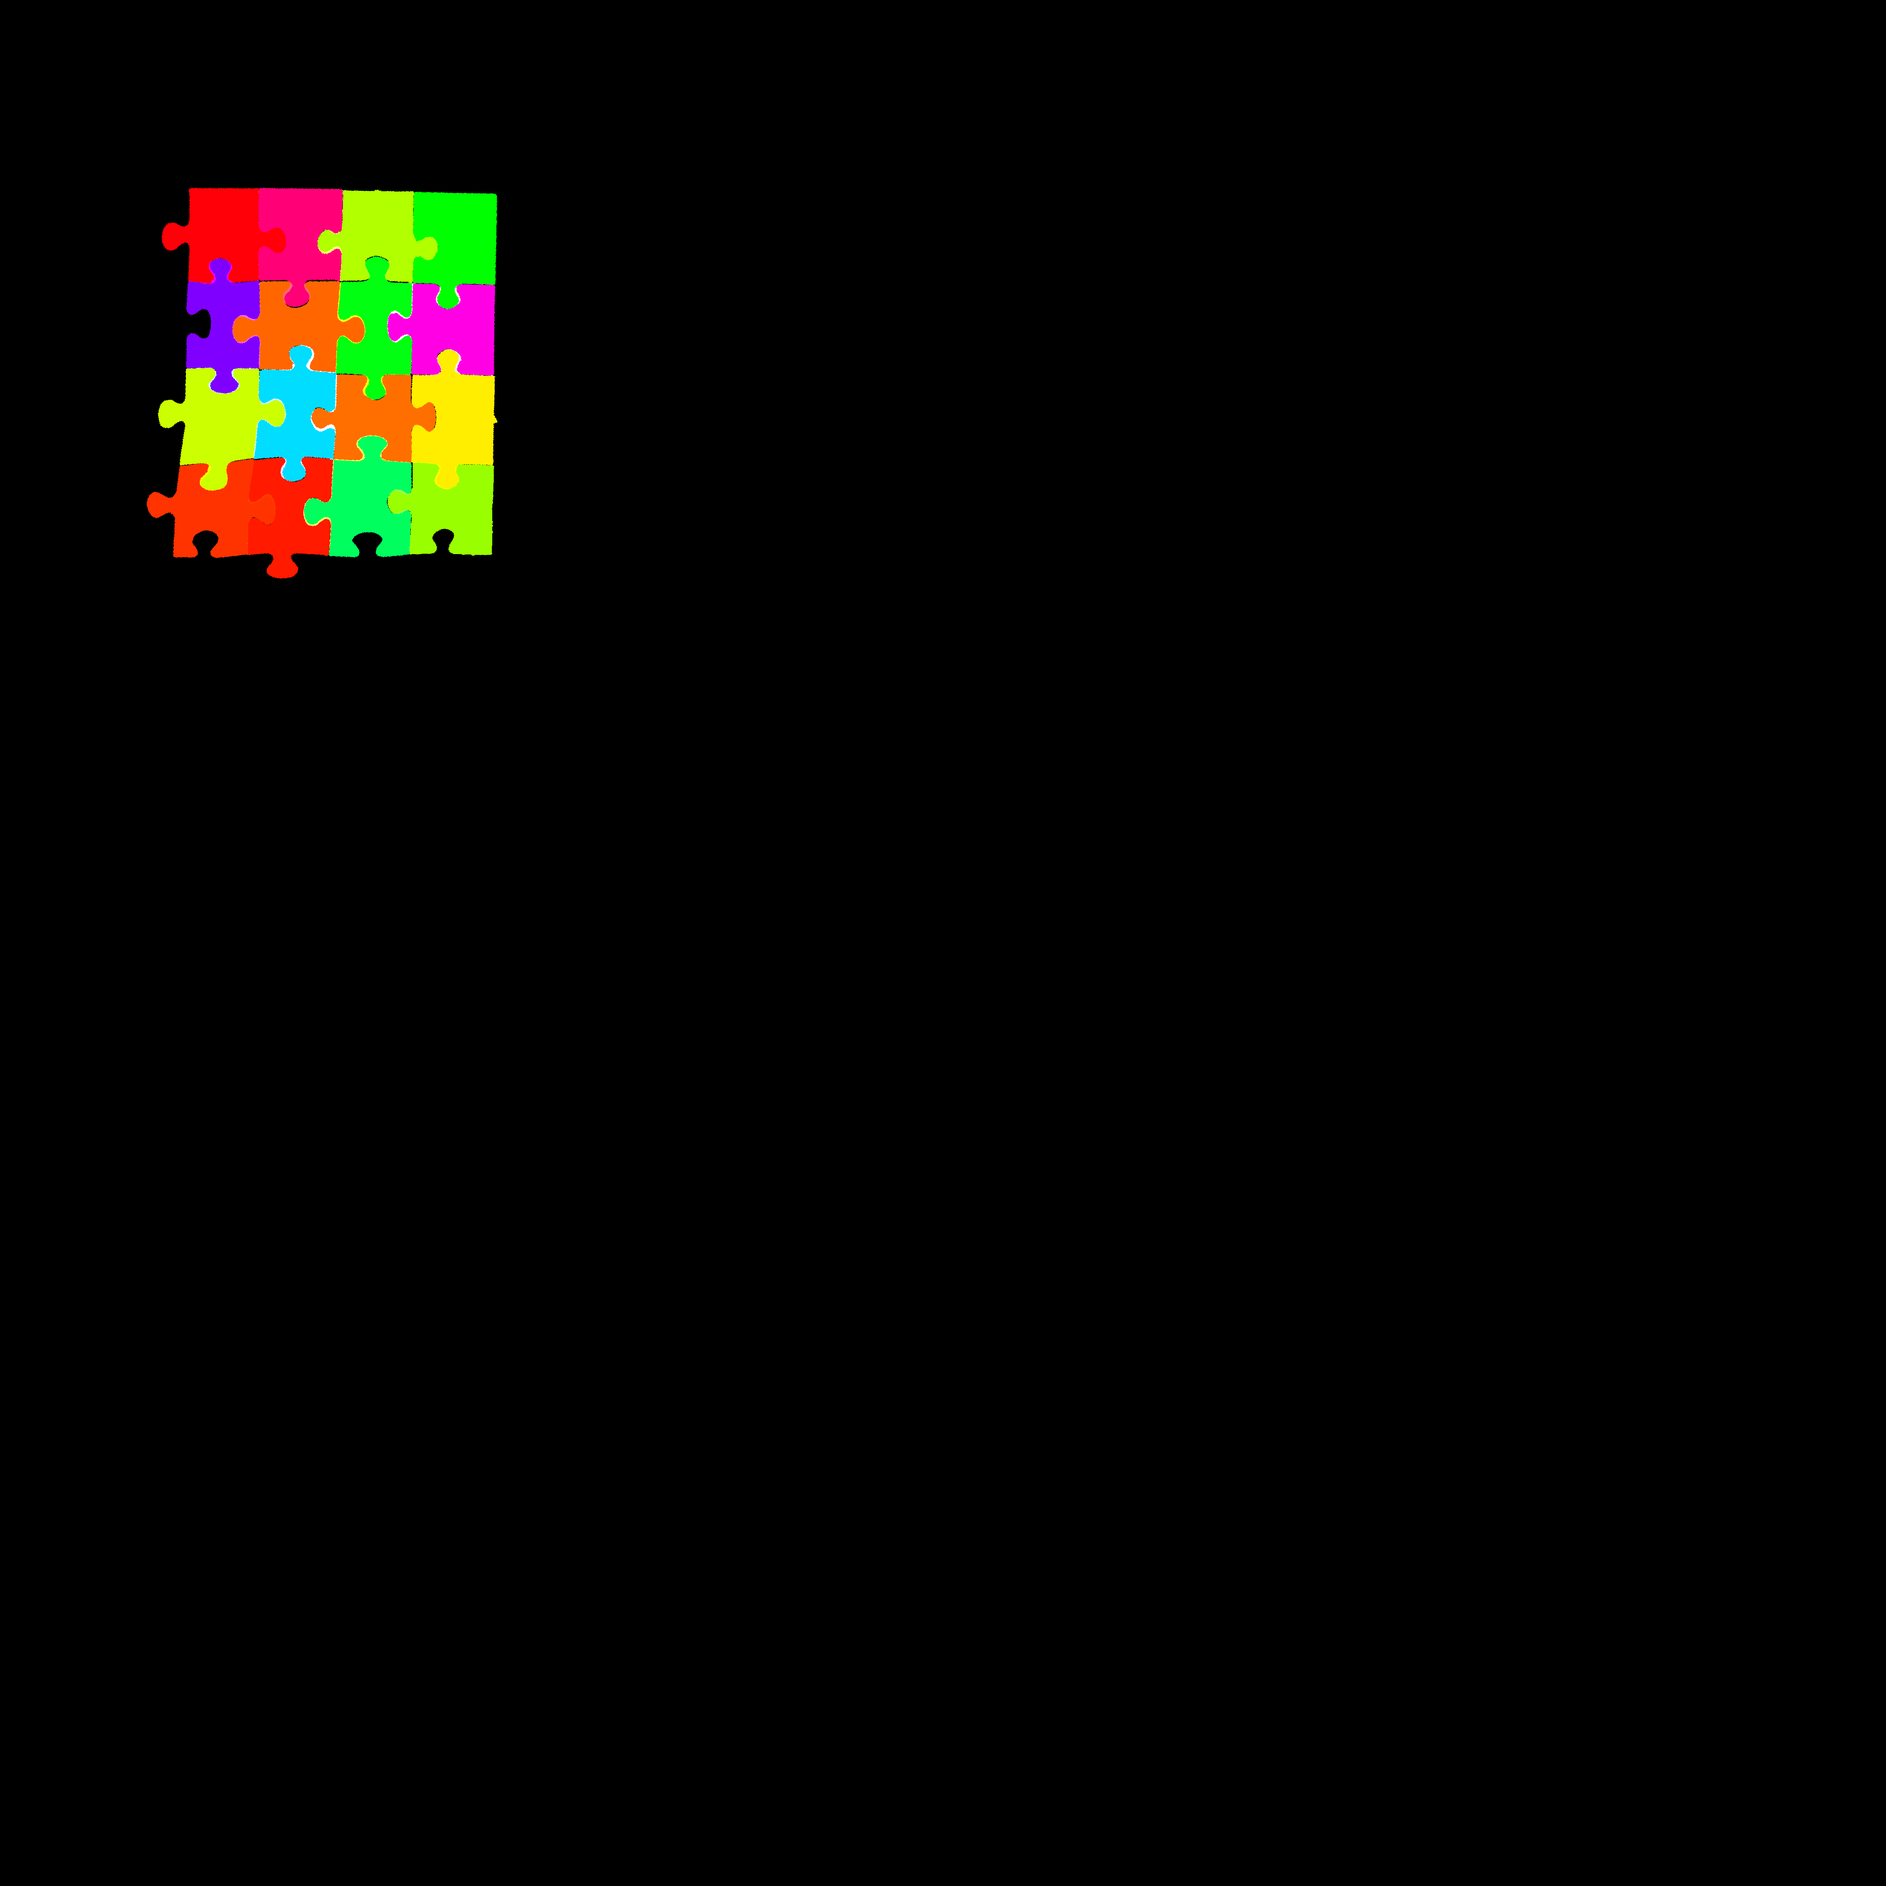
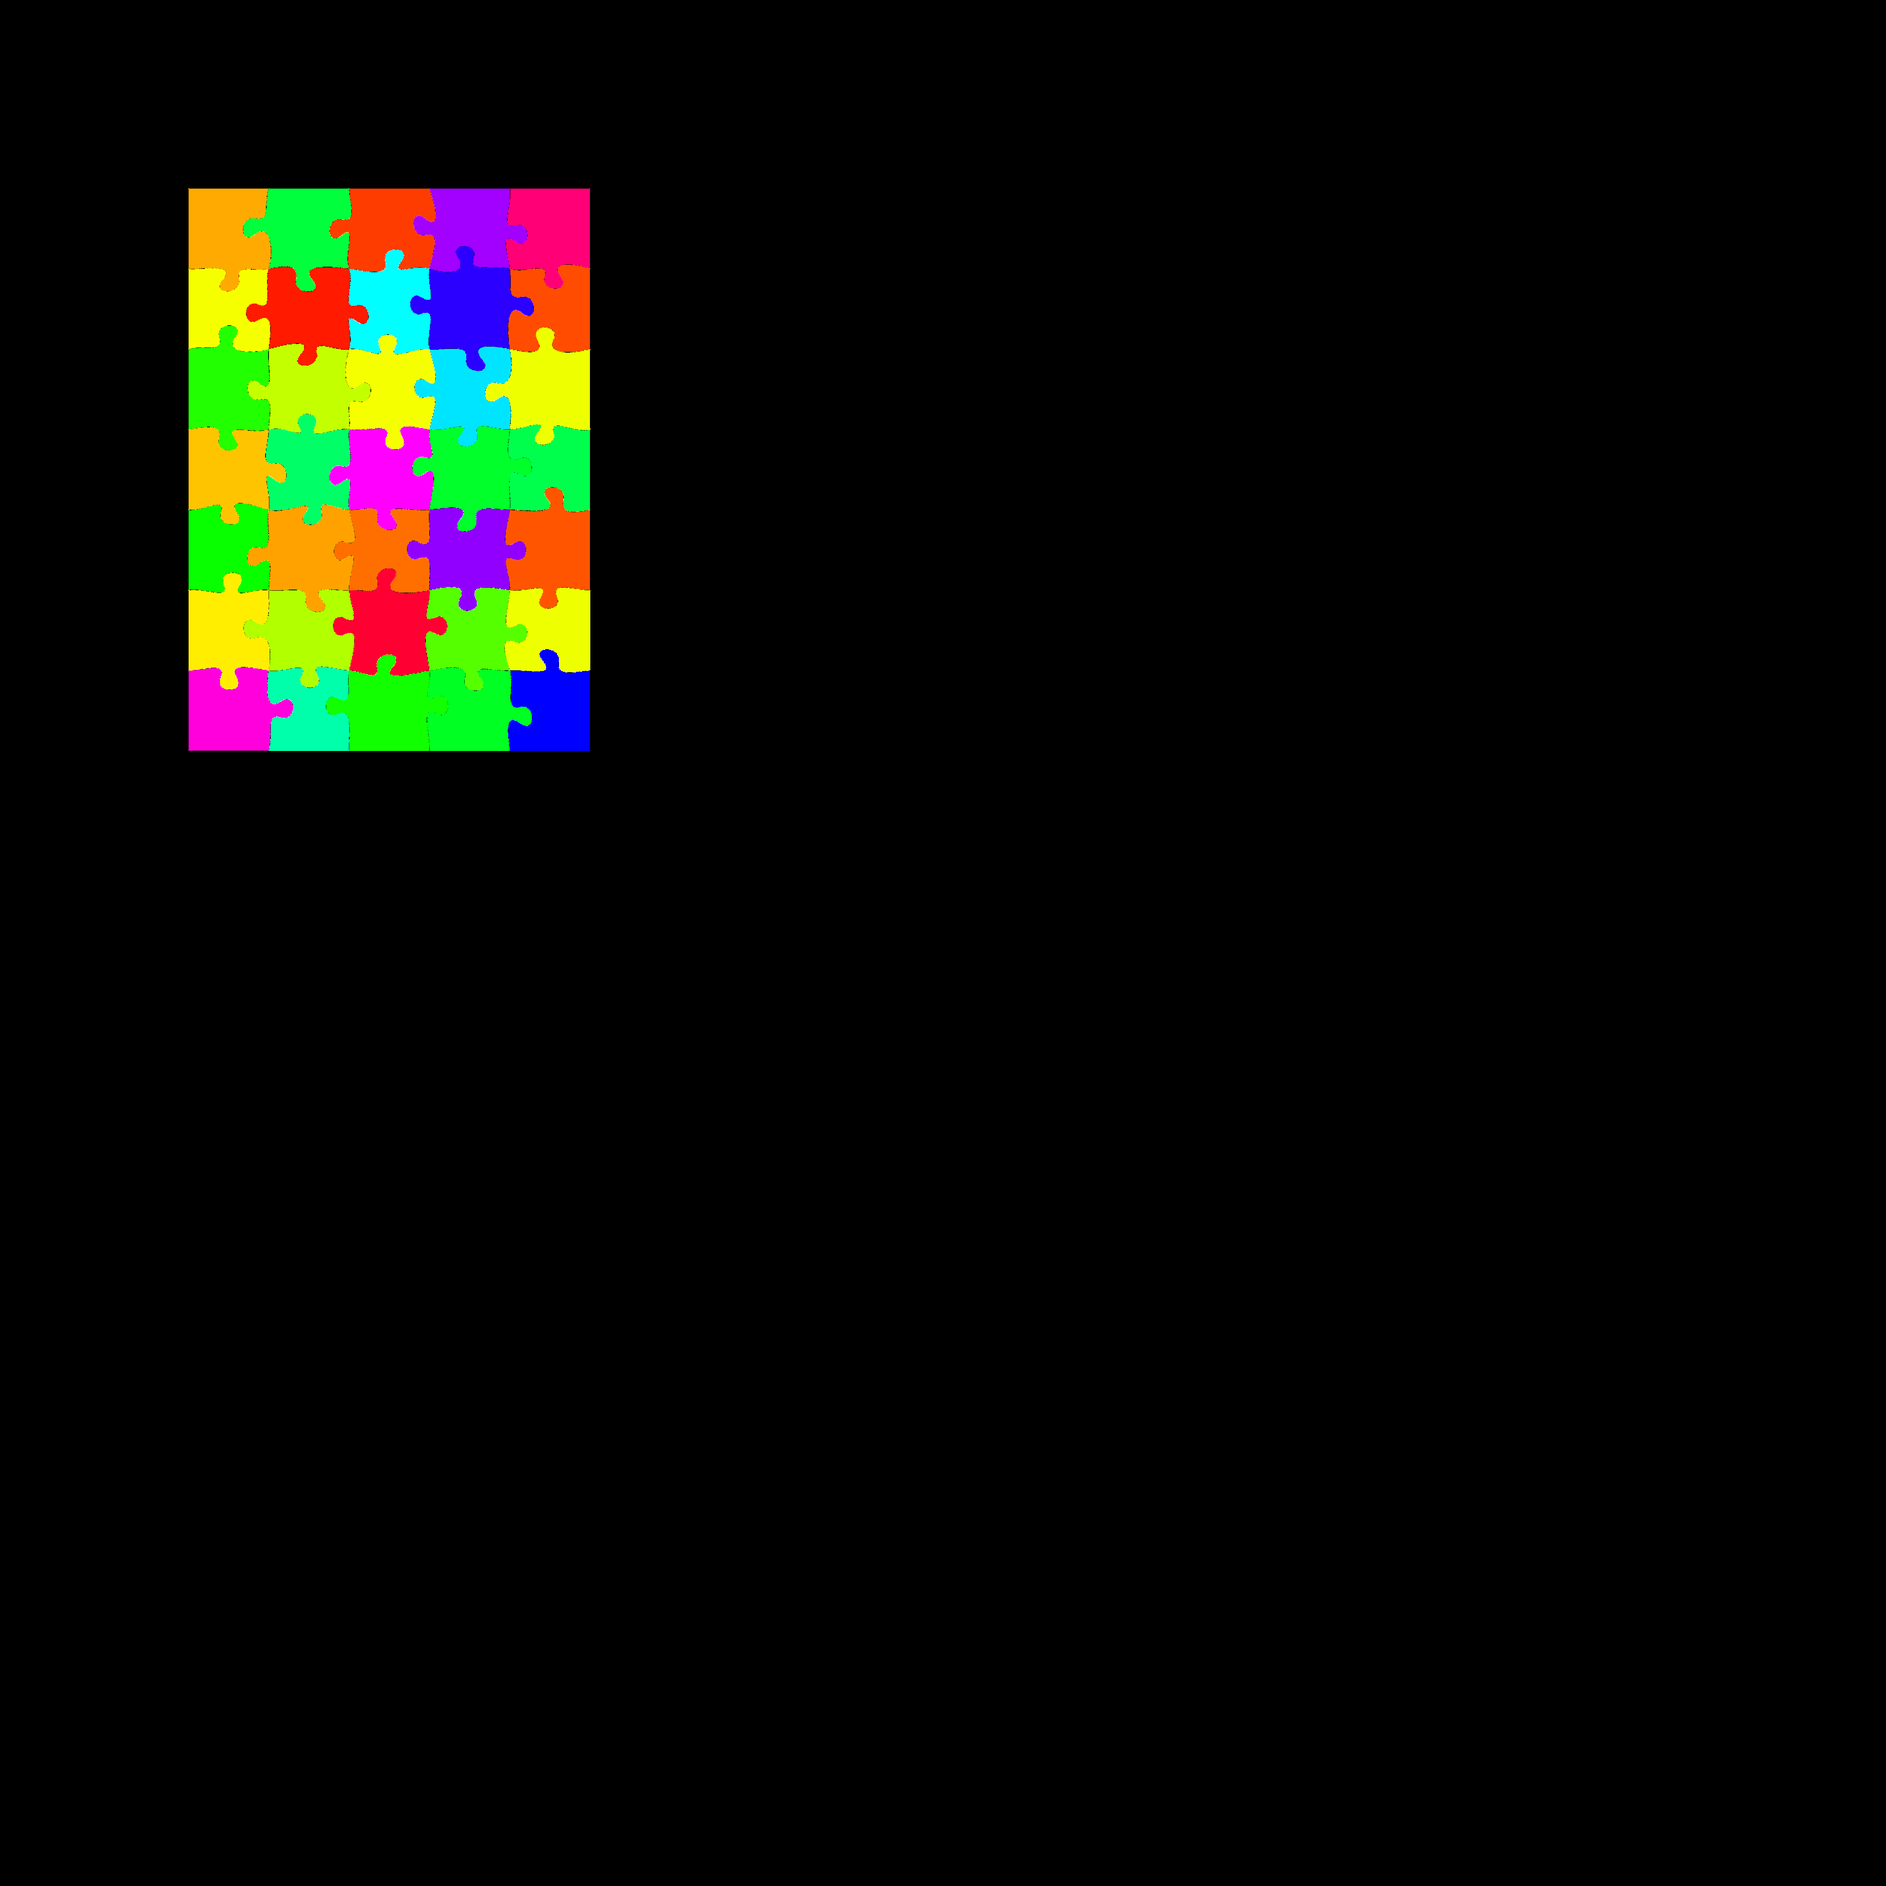
add all size comparibility

Changed region(s): [[0.0624, 0.0936, 0.312, 0.4056]]

diff --git a/cpp_lib/rust_solving/src/finalize_piece_array.rs b/cpp_lib/rust_solving/src/finalize_piece_array.rs
@@ -1,7 +1,9 @@
+use std::sync::Mutex;
 use libc::remove;
-use crate::constants::MIN_SHORE_PIECE_ARRAY;
+use rayon::prelude::*;
+use crate::constants::{MIN_SHORE_PIECE_ARRAY, MIN_SHORE_PIECE_GROUP};
 use crate::piece_array::PieceArray;
-use crate::piece_group::NextLevelOrPanic;
+use crate::piece_group::{Direction, NextLevelOrPanic, PieceGroup};
 use crate::piece_group_holder::PieceGroupHolder;
 
 /// this function takes as input a list of piece groups (that by nature have shape N^2 x N^2 with N positive integer)
@@ -10,25 +12,116 @@ use crate::piece_group_holder::PieceGroupHolder;
 /// puzzle with a wide aspect ration (greater that 2:1) are not supported by this function)
 pub fn finalize_piece_array<T: NextLevelOrPanic>(pgh: &PieceGroupHolder<T>, output_path: &str ,size_x: u64, size_y: u64) -> bool{
 
+    let mut candidates = Mutex::new(Vec::<PieceArray>::new());
+    println!("{}",T::SIDE_LEN);
+    let shrink_size_x =  T::SIDE_LEN*2 - size_x;
+    let shrink_size_y = T::SIDE_LEN*2 - size_y;
+
+
+    let function= |top_left_id: usize|  {
+        for top_left_orientation in 0..4{
+
+            let top_left = pgh.get(top_left_id,top_left_orientation);
+
+            for top_right_id in (top_left_id+1)..pgh.get_size(){
+                'tr_orientation:
+                for top_right_orientation in 0..4{
+
+                    let top_right = pgh.get(top_right_id,top_right_orientation);
+
+                    for bottom_right_id in (top_left_id+1)..pgh.get_size(){
+                        'br_orientation:
+                        for bottom_right_orientation in 0..4{
+
+                            let bottom_right = pgh.get(bottom_right_id,bottom_right_orientation);
+
+                            for bottom_left_id in (top_left_id+1)..pgh.get_size(){
+                                'bl_orientation:
+                                for bottom_left_orientation in 0..4{
+
+                                    let bottom_left = pgh.get(bottom_left_id,bottom_left_orientation);
+
+                                    if top_left.compare_to_with_intersection(Direction::RIGHT,
+                                                top_right,shrink_size_x).get_shore() < MIN_SHORE_PIECE_GROUP{
+                                        continue 'tr_orientation;
+                                    }else if false{
+                                        let mut pa = PieceArray::new(T::SIDE_LEN,T::SIDE_LEN);
+                                        top_left.fill_piece_array(&mut pa,0,0,0);
+                                        println!("top left: {:?}",pa);
+                                        top_right.fill_piece_array(&mut pa,0,0,0);
+                                        println!("top right: {:?}",pa);
+
+                                        let mut pa = PieceArray::new(size_x,T::SIDE_LEN);
+                                        //let mut pa = PieceArray::new(T::SIDE_LEN,T::SIDE_LEN);
+                                        top_left.fill_piece_array(&mut pa,0,0,0);
+                                        top_right.fill_piece_array(&mut pa,T::SIDE_LEN-shrink_size_x,0,0);
+                                        println!("merged: {:?}",pa);
+
+                                        unsafe {
+                                            // call c++ dll
+                                            let mut paw = pa.get_piece_array_wrapper();
+                                            (*paw).save_as_binary("test.bin");
+                                            // save the image
+                                            (*paw).generate_test_image("candidate.png");
+                                            println!();
+                                        }
+                                    }
+                                    if top_right.compare_to_with_intersection(Direction::DOWN,
+                                                bottom_right,shrink_size_y).get_shore() < MIN_SHORE_PIECE_GROUP{
+                                        continue 'br_orientation;
+                                    }
+                                    if bottom_right.compare_to_with_intersection(Direction::LEFT,
+                                                bottom_left,shrink_size_x).get_shore() < MIN_SHORE_PIECE_GROUP{
+                                        continue 'bl_orientation;
+                                    }
+                                    if bottom_left.compare_to_with_intersection(Direction::UP,
+                                                top_left,shrink_size_y).get_shore() < MIN_SHORE_PIECE_GROUP{
+                                        continue;
+                                    }
+                                    // todo: control that there are no duplicates
+
+
+                                    // fill piece array
+                                    let mut pa = PieceArray::new(size_x,size_y);
+                                    top_left.fill_piece_array(&mut pa,0,0,0);
+                                    top_right.fill_piece_array(&mut pa,T::SIDE_LEN-shrink_size_x,0,0);
+                                    bottom_left.fill_piece_array(&mut pa,0,T::SIDE_LEN-shrink_size_y,0);
+                                    bottom_right.fill_piece_array(&mut pa,T::SIDE_LEN-shrink_size_x,T::SIDE_LEN-shrink_size_y,0);
+
+                                    // add to candidates
+                                    candidates.lock().unwrap().push(pa);
+                                }
+                            }
+                        }
+                    }
+                }
+            }
+        }
+    };
+
+    (0..pgh.get_size()).into_iter().for_each(|top_left_id|{
+        function(top_left_id);
+    });
+
     let mut best: Option<PieceArray> = None;
     let best_shore = 0.0;
     // nota: for now this function only solve squared puzzles
-    for piece_id in 0..pgh.get_size(){
+    for candidate in candidates.lock().unwrap().iter_mut(){
         // calculate the shore of the current piece
-        let piece_group = pgh.get(piece_id,0);
-        let mut pa = PieceArray::new(size_x,size_y);
-        piece_group.fill_piece_array(&mut pa,0,0,0);
         unsafe {
             // call c++ dll
-            let mut paw = pa.get_piece_array_wrapper();
+            let mut paw = candidate.get_piece_array_wrapper();
 
             // get the shore of the  current piece array
             let shore = (*paw).get_shore();
 
             // keep track of the best shore
             if shore > best_shore{
-                best = Option::Some(pa);
+                best = Option::Some(candidate.clone());
             }
+            // save the image
+            (*paw).generate_test_image("candidate.png");
+            println!("{:?}",candidate);
 
             // deallocate memory
             (*paw).destroy_piece_array_wrapper();

diff --git a/cpp_lib/rust_solving/src/piece_group/next_level_or_panic.rs b/cpp_lib/rust_solving/src/piece_group/next_level_or_panic.rs
@@ -3,12 +3,20 @@ use crate::piece_group_holder::PieceGroupHolder;
 use crate::single_piece::SingePiece;
 use super::super::solver::solve;
 use crate::finalize_piece_array::finalize_piece_array;
+use crate::piece_group::intersection_comparable::IntersectionComparable;
 
 /// the `solve` function need to be a generic recursive function...
 /// such a function would generate infinite versions of itself making it impossible to compile
 /// this trait will decide on a type by type whether or not to call the next function... preventing this issue
 /// this trait also group all the trait necessary fro the function to work
-pub trait NextLevelOrPanic: Clone + HasOrientation + Send + Comparable + IsSubComponent + HasKnownLevel + PieceArrayFiller + Sync + HasBasicComponents<Self> + AddShoreOfSubComponents{
+pub trait NextLevelOrPanic:
+    Clone + HasOrientation + Send +
+    Comparable + IsSubComponent +
+    HasKnownLevel + PieceArrayFiller +
+    Sync + HasBasicComponents<Self> +
+    AddShoreOfSubComponents +
+    IntersectionComparable
+{
     fn next_or_panic(pgh: &PieceGroupHolder<PieceGroup<Self>>, output_path: &str, size_x: u64, size_y: u64) -> bool;
 }
 
@@ -18,7 +26,7 @@ macro_rules! implement_next {
         impl NextLevelOrPanic for $i{
             fn next_or_panic(pgh: &PieceGroupHolder<PieceGroup<Self>>, output_path: &str, size_x: u64, size_y: u64) -> bool {
                 // when the limit is reached, call the finalize function
-                if PieceGroup::<Self>::SIDE_LEN >= size_y || PieceGroup::<Self>::SIDE_LEN >= size_x{
+                if PieceGroup::<Self>::SIDE_LEN*2 >= size_y || PieceGroup::<Self>::SIDE_LEN*2 >= size_x{
                     return finalize_piece_array::<PieceGroup<Self>>(&pgh,output_path,size_x,size_y);
                 }
                 return solve::<PieceGroup<Self>>(pgh, output_path, size_x, size_y);

diff --git a/cpp_lib/rust_solving/src/piece_group/intersection_comparable.rs b/cpp_lib/rust_solving/src/piece_group/intersection_comparable.rs
@@ -57,10 +57,10 @@ impl<T:Comparable + Clone + IsSubComponent + PieceArrayFiller + HasKnownLevel> I
                     x_min = 0;
                     x_max = pa.dim_x-1;
                     y_min = 0;
-                    y_max = width;
+                    y_max = width-1;
                 }
                 Direction::RIGHT =>{
-                    x_min = pa.dim_x-1-width;
+                    x_min = pa.dim_x-width;
                     x_max = pa.dim_x-1;
                     y_min = 0;
                     y_max = pa.dim_y-1;
@@ -68,20 +68,19 @@ impl<T:Comparable + Clone + IsSubComponent + PieceArrayFiller + HasKnownLevel> I
                 Direction::DOWN =>{
                     x_min = 0;
                     x_max = pa.dim_x-1;
-                    y_min = pa.dim_y-1-width;
+                    y_min = pa.dim_y-width;
                     y_max = pa.dim_y-1;
                 }
                 Direction::LEFT =>{
                     x_min = 0;
-                    x_max = width;
+                    x_max = width-1;
                     y_min = 0;
                     y_max = pa.dim_y-1;
                 }
             }
+
             return pa.get_slice(x_min,x_max,y_min,y_max);
         }
-
-
 
         let pa_slice_self = get_slice(&pa_self,direction,intersection_width);
         let pa_slice_other = get_slice(&pa_other,-direction,intersection_width);

diff --git a/cpp_lib/rust_solving/src/lib.rs b/cpp_lib/rust_solving/src/lib.rs
@@ -95,10 +95,10 @@ fn main_test(){
 
 
 
-    const CONNECTIONS_PATH: &str = r"..\..\dataset\test_4x4\connections";
+    /*const CONNECTIONS_PATH: &str = r"..\..\dataset\test_4x4\connections";
     const DIVIDED_PATH: &str = r"..\..\dataset\test_4x4\divided";
     const SIZE_X: u64 = 4;
-    const SIZE_Y: u64 = 4;
+    const SIZE_Y: u64 = 4;*/
 
     /*
     const CONNECTIONS_PATH: &str = r"..\..\dataset\test_8x8\connections";
@@ -112,11 +112,11 @@ fn main_test(){
     const SIZE_X: u64 = 4;
     const SIZE_Y: u64 = 4;*/
 
-    /*
-    const CONNECTIONS_PATH: &str = r"..\..\dataset\test_8x8_digital\connections";
-    const DIVIDED_PATH: &str = r"..\..\dataset\test_8x8_digital\divided";
-    const SIZE_X: u64 = 8;
-    const SIZE_Y: u64 = 8;*/
+
+    const CONNECTIONS_PATH: &str = r"..\..\dataset\test_5x7_digital\connections";
+    const DIVIDED_PATH: &str = r"..\..\dataset\test_5x7_digital\divided";
+    const SIZE_X: u64 = 5;
+    const SIZE_Y: u64 = 7;
 
     /*
     const CONNECTIONS_PATH: &str = r"..\..\dataset\test_16x16_digital\connections";

diff --git a/cpp_lib/rust_solving/src/solver.rs b/cpp_lib/rust_solving/src/solver.rs
@@ -61,7 +61,7 @@ pub fn solve<T: NextLevelOrPanic + Debug>(pgh: &PieceGroupHolder<T>, output_path
 
                         // now it is possible to check if the pieces match graphically, calling the c++ func
 
-                        if T::LEVEL < 2{
+                        if T::LEVEL < 2 && false{
                             // create the piece array with the appropriate size
                             let mut pa = PieceArray::new(
                                 PieceGroup::<T>::SIDE_LEN,

diff --git a/cpp_lib/rust_solving/src/constants.rs b/cpp_lib/rust_solving/src/constants.rs
@@ -1,5 +1,5 @@
 pub const MIN_SHORE_PIECE_ARRAY: f32 = 0.975;
-//pub const MIN_SHORE_PIECE_GROUP: u8 = 150;
-//pub const MIN_SHORE_SINGLE_SIDE: u8 = 125;
-pub const MIN_SHORE_PIECE_GROUP: u8 = 125;
-pub const MIN_SHORE_SINGLE_SIDE: u8 = 70;
+pub const MIN_SHORE_PIECE_GROUP: u8 = 150;
+pub const MIN_SHORE_SINGLE_SIDE: u8 = 125;
+//pub const MIN_SHORE_PIECE_GROUP: u8 = 125;
+//pub const MIN_SHORE_SINGLE_SIDE: u8 = 70;

diff --git a/cpp_lib/rust_solving/src/piece_array.rs b/cpp_lib/rust_solving/src/piece_array.rs
@@ -92,6 +92,7 @@ extern "C"{
 /// the struct can comunicate with the C++ library, and offer the following functionalities:
 /// - Can generate a preview image and send it to the c# lib to be analized
 /// - Can Generate an image for shoring, and return a shore that tels how well sed pieces work together
+#[derive(Clone)]
 pub struct PieceArray{
     pub dim_x: u64,
     pub dim_y: u64,
